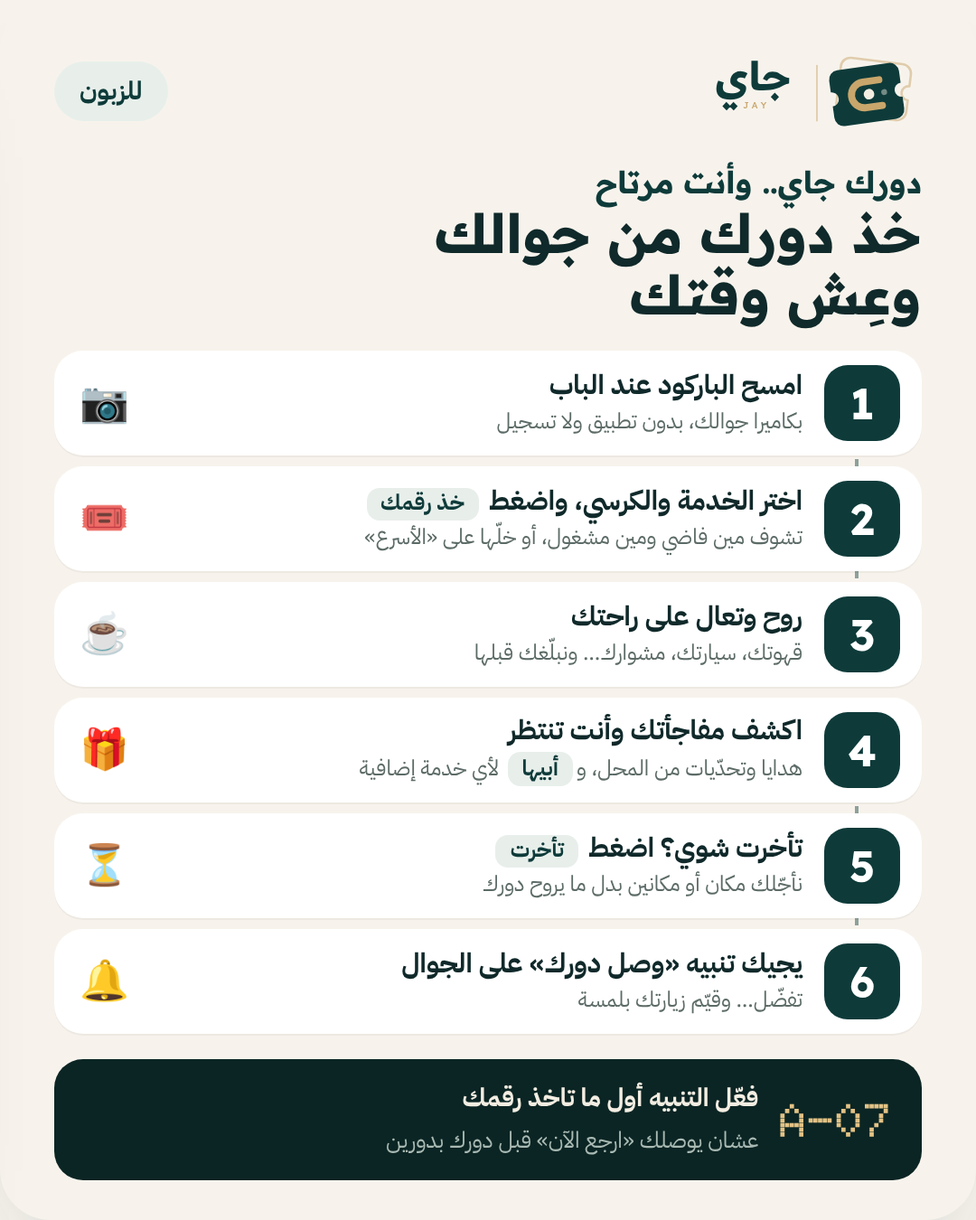
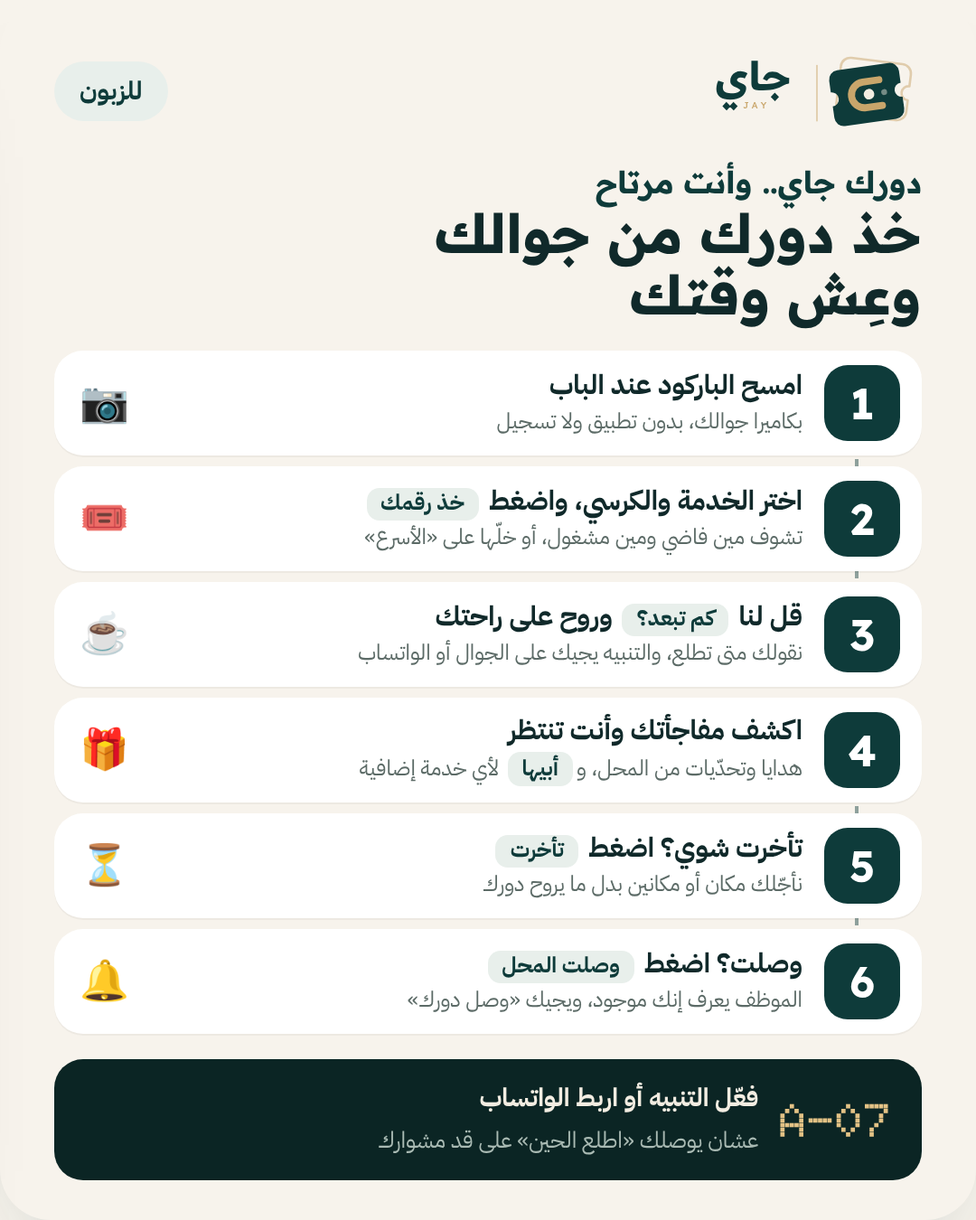
Sync every page with the app: WhatsApp, «كم تبعد؟», «وصلت»; standing update rule in CLAUDE.md
- Readiness: dated 24 Nov, 140 DB tests and 28 UX tests, recent work, notifications item done (waiting for Meta
  keys), privacy row, a far-away-customer runbook card, and an updated «ما أحتاجه منك» (admin password first).
- Intro site: distance-based alert and WhatsApp in the features, basic plan and FAQ; staff mock shows «وصل».
- Infographics: customer and staff steps re-written and PNGs re-exported; competitors: two new rows.
- CLAUDE.md: after any change, update tests, pages, artifacts, live site and both branches, and report the links.

Claude-Session: https://claude.ai/code/session_011AnjtrARLh3VczrdQUDmDr

Changed region(s): [[0.3972, 0.7778, 0.825, 0.84], [0.3667, 0.4978, 0.825, 0.56], [0.3972, 0.8711, 0.6417, 0.9644]]

diff --git a/site/readiness.html b/site/readiness.html
@@ -47,35 +47,35 @@ tr:last-child td{border-bottom:0}
 </style>
 <div class="wrap">
   <svg class="rep-logo light" xmlns="http://www.w3.org/2000/svg" viewBox="52 128 322 136" role="img" aria-label="جاي"><title>جاي</title><g transform="translate(304 194) rotate(7) scale(0.85) translate(-60 -48)"><path d="M16 0H104A16 16 0 0 1 120 16V36A12 12 0 0 0 120 60V80A16 16 0 0 1 104 96H16A16 16 0 0 1 0 80V60A12 12 0 0 0 0 36V16A16 16 0 0 1 16 0Z" fill="none" stroke="#C9A66B" stroke-width="4" stroke-opacity="0.5" stroke-linejoin="round"/></g><g transform="translate(294 202) rotate(-8) scale(0.85) translate(-60 -48)"><path d="M16 0H104A16 16 0 0 1 120 16V36A12 12 0 0 0 120 60V80A16 16 0 0 1 104 96H16A16 16 0 0 1 0 80V60A12 12 0 0 0 0 36V16A16 16 0 0 1 16 0Z" fill="#0E3B3A"/><path d="M84 26H56A22 22 0 0 0 56 70H84" fill="none" stroke="#C9A66B" stroke-width="12" stroke-linecap="round" stroke-linejoin="round"/><circle cx="64" cy="48" r="9" fill="#F3EDE2"/><circle cx="90" cy="48" r="5" fill="#F3EDE2" fill-opacity="0.45"/></g><line x1="222" y1="160" x2="222" y2="240" stroke="#C9A66B" stroke-width="2" stroke-linecap="round" stroke-opacity="0.6"/><path d="M96.215 209.34Q91.80699999999999 209.34 88.18199999999999 208.47Q84.55699999999999 207.6 81.91799999999999 205.744Q79.279 203.888 77.858 200.959Q76.437 198.03 76.437 193.912Q76.437 191.534 77.10399999999998 188.286Q77.77099999999999 185.038 79.22099999999999 182.022L87.225 184.516Q86.529 186.546 86.15199999999999 188.286Q85.77499999999999 190.026 85.77499999999999 191.708Q85.77499999999999 193.738 86.471 195.333Q87.167 196.928 88.61699999999999 198.03Q90.067 199.132 92.27099999999999 199.683Q94.475 200.234 97.491 200.234Q101.261 200.234 103.842 199.77Q106.423 199.306 107.96 198.55200000000002Q109.49699999999999 197.798 110.19299999999998 197.015Q110.889 196.232 110.889 195.652Q110.889 195.362 110.541 194.898Q110.193 194.434 108.685 193.564Q107.17699999999999 192.694 103.697 191.186Q101.261 190.084 99.695 188.837Q98.12899999999999 187.59 97.375 186.053Q96.621 184.516 96.621 182.544Q96.621 178.252 98.535 175.062Q100.449 171.872 103.81299999999999 170.103Q107.17699999999999 168.334 111.52699999999999 168.334Q113.383 168.334 115.21000000000001 168.711Q117.037 169.088 118.632 169.784Q120.227 170.48 121.445 171.466L117.38499999999999 178.948Q116.225 178.252 114.77499999999999 177.846Q113.32499999999999 177.44 111.52699999999999 177.44Q108.975 177.44 107.64099999999999 178.542Q106.30699999999999 179.644 106.30699999999999 180.804Q106.30699999999999 181.61599999999999 106.74199999999999 182.312Q107.17699999999999 183.008 108.77199999999999 183.907Q110.36699999999999 184.806 113.731 186.314Q116.28299999999999 187.416 117.52999999999999 188.402Q118.77699999999999 189.388 119.18299999999999 190.49Q119.589 191.592 119.589 193.042Q119.589 194.608 119.009 196.696Q118.429 198.784 116.979 200.988Q115.529 203.192 112.89 205.106Q110.251 207.02 106.162 208.18Q102.073 209.34 96.215 209.34ZM91.285 224.942 85.195 218.736 90.937 212.588 97.02699999999999 218.736ZM101.493 224.942 95.40299999999999 218.736 101.20299999999999 212.588 107.29299999999999 218.736ZM138.265 196.0Q135.365 196.0 133.277 195.42000000000002Q131.189 194.84 129.826 193.59300000000002Q128.463 192.346 127.79599999999999 190.374Q127.12899999999999 188.402 127.12899999999999 185.618V153.07999999999998H136.46699999999998V182.254Q136.46699999999998 183.53 136.641 184.429Q136.815 185.328 137.279 185.87900000000002Q137.743 186.43 138.584 186.662Q139.425 186.894 140.817 186.894H143.079V196.0ZM143.079 196.0V186.894H144.413Q149.691 186.894 153.287 186.662Q156.883 186.43 159.377 185.937Q161.871 185.444 163.727 184.69Q165.583 183.936 167.381 182.892Q167.787 182.66 168.077 182.486Q168.36700000000002 182.312 168.62800000000001 182.167Q168.889 182.022 169.06300000000002 181.964Q166.917 180.862 165.17700000000002 180.079Q163.437 179.296 161.9 178.803Q160.363 178.31 159.0 178.078Q157.637 177.846 156.245 177.846Q154.447 177.846 152.93900000000002 178.832Q151.431 179.81799999999998 149.749 182.254L143.775 179.18Q145.747 175.062 148.00900000000001 172.8Q150.27100000000002 170.538 152.707 169.639Q155.143 168.74 157.52100000000002 168.74Q160.65300000000002 168.74 163.29200000000003 169.668Q165.931 170.596 168.251 171.988Q170.571 173.38 172.775 174.743Q174.979 176.106 177.183 177.034Q179.387 177.962 181.881 177.904L181.707 185.792Q180.199 186.198 177.995 186.981Q175.791 187.764 172.89100000000002 189.272Q170.571 190.49 168.019 191.679Q165.467 192.868 162.161 193.85399999999998Q158.85500000000002 194.84 154.389 195.42000000000002Q149.923 196.0 143.833 196.0ZM143.079 186.894H143.65900000000002V196.0H143.079Q141.339 196.0 141.339 191.476Q141.339 186.894 143.079 186.894ZM161.291 211.602 155.143 205.39600000000002 161.001 199.248 167.091 205.39600000000002Z" fill="#0E3B3A"/><path d="M118.238 222.13Q117.783 222.13 117.36699999999999 222.01299999999998Q116.951 221.896 116.6 221.6815Q116.249 221.467 115.9695 221.1615Q115.69 220.856 115.495 220.479L116.509 219.426Q116.847 219.881 117.107 220.128Q117.367 220.375 117.614 220.466Q117.861 220.557 118.16 220.557Q118.576 220.557 118.8945 220.362Q119.213 220.167 119.382 219.829Q119.551 219.491 119.551 219.062V214.408H117.887V212.9H122.619V214.408H121.215V219.231Q121.215 219.868 120.994 220.3945Q120.773 220.921 120.3765 221.31099999999998Q119.98 221.701 119.434 221.9155Q118.888 222.13 118.238 222.13ZM127.58 222.0 131.129 212.9H132.702L136.225 222.0H134.483L132.51999999999998 216.8Q132.468 216.657 132.3575 216.31900000000002Q132.24699999999999 215.981 132.117 215.578Q131.987 215.175 131.8765 214.837Q131.766 214.499 131.727 214.33L132.052 214.317Q131.974 214.577 131.87 214.9085Q131.766 215.24 131.649 215.591Q131.53199999999998 215.942 131.415 216.267Q131.298 216.592 131.207 216.852L129.257 222.0ZM129.192 219.907 129.76399999999998 218.451H133.911L134.548 219.907ZM144.046 222.0V217.463L144.137 218.1L140.458 212.9H142.434L145.229 216.917L144.644 216.878L147.166 212.9H149.064L145.541 218.243L145.73600000000002 217.359V222.0Z" fill="#C9A66B"/></svg><svg class="rep-logo dark" xmlns="http://www.w3.org/2000/svg" viewBox="52 128 322 136" role="img" aria-label="جاي"><title>جاي</title><g transform="translate(304 194) rotate(7) scale(0.85) translate(-60 -48)"><path d="M16 0H104A16 16 0 0 1 120 16V36A12 12 0 0 0 120 60V80A16 16 0 0 1 104 96H16A16 16 0 0 1 0 80V60A12 12 0 0 0 0 36V16A16 16 0 0 1 16 0Z" fill="none" stroke="#C9A66B" stroke-width="4" stroke-opacity="0.5" stroke-linejoin="round"/></g><g transform="translate(294 202) rotate(-8) scale(0.85) translate(-60 -48)"><path d="M16 0H104A16 16 0 0 1 120 16V36A12 12 0 0 0 120 60V80A16 16 0 0 1 104 96H16A16 16 0 0 1 0 80V60A12 12 0 0 0 0 36V16A16 16 0 0 1 16 0Z" fill="#F3EDE2"/><path d="M84 26H56A22 22 0 0 0 56 70H84" fill="none" stroke="#C9A66B" stroke-width="12" stroke-linecap="round" stroke-linejoin="round"/><circle cx="64" cy="48" r="9" fill="#0E3B3A"/><circle cx="90" cy="48" r="5" fill="#0E3B3A" fill-opacity="0.45"/></g><line x1="222" y1="160" x2="222" y2="240" stroke="#C9A66B" stroke-width="2" stroke-linecap="round" stroke-opacity="0.6"/><path d="M96.215 209.34Q91.80699999999999 209.34 88.18199999999999 208.47Q84.55699999999999 207.6 81.91799999999999 205.744Q79.279 203.888 77.858 200.959Q76.437 198.03 76.437 193.912Q76.437 191.534 77.10399999999998 188.286Q77.77099999999999 185.038 79.22099999999999 182.022L87.225 184.516Q86.529 186.546 86.15199999999999 188.286Q85.77499999999999 190.026 85.77499999999999 191.708Q85.77499999999999 193.738 86.471 195.333Q87.167 196.928 88.61699999999999 198.03Q90.067 199.132 92.27099999999999 199.683Q94.475 200.234 97.491 200.234Q101.261 200.234 103.842 199.77Q106.423 199.306 107.96 198.55200000000002Q109.49699999999999 197.798 110.19299999999998 197.015Q110.889 196.232 110.889 195.652Q110.889 195.362 110.541 194.898Q110.193 194.434 108.685 193.564Q107.17699999999999 192.694 103.697 191.186Q101.261 190.084 99.695 188.837Q98.12899999999999 187.59 97.375 186.053Q96.621 184.516 96.621 182.544Q96.621 178.252 98.535 175.062Q100.449 171.872 103.81299999999999 170.103Q107.17699999999999 168.334 111.52699999999999 168.334Q113.383 168.334 115.21000000000001 168.711Q117.037 169.088 118.632 169.784Q120.227 170.48 121.445 171.466L117.38499999999999 178.948Q116.225 178.252 114.77499999999999 177.846Q113.32499999999999 177.44 111.52699999999999 177.44Q108.975 177.44 107.64099999999999 178.542Q106.30699999999999 179.644 106.30699999999999 180.804Q106.30699999999999 181.61599999999999 106.74199999999999 182.312Q107.17699999999999 183.008 108.77199999999999 183.907Q110.36699999999999 184.806 113.731 186.314Q116.28299999999999 187.416 117.52999999999999 188.402Q118.77699999999999 189.388 119.18299999999999 190.49Q119.589 191.592 119.589 193.042Q119.589 194.608 119.009 196.696Q118.429 198.784 116.979 200.988Q115.529 203.192 112.89 205.106Q110.251 207.02 106.162 208.18Q102.073 209.34 96.215 209.34ZM91.285 224.942 85.195 218.736 90.937 212.588 97.02699999999999 218.736ZM101.493 224.942 95.40299999999999 218.736 101.20299999999999 212.588 107.29299999999999 218.736ZM138.265 196.0Q135.365 196.0 133.277 195.42000000000002Q131.189 194.84 129.826 193.59300000000002Q128.463 192.346 127.79599999999999 190.374Q127.12899999999999 188.402 127.12899999999999 185.618V153.07999999999998H136.46699999999998V182.254Q136.46699999999998 183.53 136.641 184.429Q136.815 185.328 137.279 185.87900000000002Q137.743 186.43 138.584 186.662Q139.425 186.894 140.817 186.894H143.079V196.0ZM143.079 196.0V186.894H144.413Q149.691 186.894 153.287 186.662Q156.883 186.43 159.377 185.937Q161.871 185.444 163.727 184.69Q165.583 183.936 167.381 182.892Q167.787 182.66 168.077 182.486Q168.36700000000002 182.312 168.62800000000001 182.167Q168.889 182.022 169.06300000000002 181.964Q166.917 180.862 165.17700000000002 180.079Q163.437 179.296 161.9 178.803Q160.363 178.31 159.0 178.078Q157.637 177.846 156.245 177.846Q154.447 177.846 152.93900000000002 178.832Q151.431 179.81799999999998 149.749 182.254L143.775 179.18Q145.747 175.062 148.00900000000001 172.8Q150.27100000000002 170.538 152.707 169.639Q155.143 168.74 157.52100000000002 168.74Q160.65300000000002 168.74 163.29200000000003 169.668Q165.931 170.596 168.251 171.988Q170.571 173.38 172.775 174.743Q174.979 176.106 177.183 177.034Q179.387 177.962 181.881 177.904L181.707 185.792Q180.199 186.198 177.995 186.981Q175.791 187.764 172.89100000000002 189.272Q170.571 190.49 168.019 191.679Q165.467 192.868 162.161 193.85399999999998Q158.85500000000002 194.84 154.389 195.42000000000002Q149.923 196.0 143.833 196.0ZM143.079 186.894H143.65900000000002V196.0H143.079Q141.339 196.0 141.339 191.476Q141.339 186.894 143.079 186.894ZM161.291 211.602 155.143 205.39600000000002 161.001 199.248 167.091 205.39600000000002Z" fill="#F3EDE2"/><path d="M118.238 222.13Q117.783 222.13 117.36699999999999 222.01299999999998Q116.951 221.896 116.6 221.6815Q116.249 221.467 115.9695 221.1615Q115.69 220.856 115.495 220.479L116.509 219.426Q116.847 219.881 117.107 220.128Q117.367 220.375 117.614 220.466Q117.861 220.557 118.16 220.557Q118.576 220.557 118.8945 220.362Q119.213 220.167 119.382 219.829Q119.551 219.491 119.551 219.062V214.408H117.887V212.9H122.619V214.408H121.215V219.231Q121.215 219.868 120.994 220.3945Q120.773 220.921 120.3765 221.31099999999998Q119.98 221.701 119.434 221.9155Q118.888 222.13 118.238 222.13ZM127.58 222.0 131.129 212.9H132.702L136.225 222.0H134.483L132.51999999999998 216.8Q132.468 216.657 132.3575 216.31900000000002Q132.24699999999999 215.981 132.117 215.578Q131.987 215.175 131.8765 214.837Q131.766 214.499 131.727 214.33L132.052 214.317Q131.974 214.577 131.87 214.9085Q131.766 215.24 131.649 215.591Q131.53199999999998 215.942 131.415 216.267Q131.298 216.592 131.207 216.852L129.257 222.0ZM129.192 219.907 129.76399999999998 218.451H133.911L134.548 219.907ZM144.046 222.0V217.463L144.137 218.1L140.458 212.9H142.434L145.229 216.917L144.644 216.878L147.166 212.9H149.064L145.541 218.243L145.73600000000002 217.359V222.0Z" fill="#C9A66B"/></svg>
-  <span class="muted">تقرير جاهزية · ١١ نوفمبر ٢٠٢٦</span>
+  <span class="muted">تقرير جاهزية · آخر تحديث ٢٤ نوفمبر ٢٠٢٦</span>
   <h1>«جاي» أمام ملاحظات المراجعة</h1>
   <p class="lede">راجعت الملاحظات الأربع عشرة والاقتراحات الاثنين والعشرين على الكود نفسه، مو على الموقع فقط. كثير منها كان موجوداً لكنه غير ظاهر في الموقع، وبعضها نفّذته اليوم، والباقي له خطة واضحة أو يحتاج قرارك.</p>
-  <div class="legend"><span class="t ok">موجود</span><span class="t new">نُفّذ اليوم</span><span class="t plan">خطة</span><span class="t you">يحتاج قرارك</span></div>
+  <div class="legend"><span class="t ok">موجود</span><span class="t new">نُفّذ مؤخراً</span><span class="t plan">خطة</span><span class="t you">يحتاج قرارك</span></div>
 
   <div class="stats">
     <div class="stat"><b>540</b><span>عملية في الثانية تحت الضغط</span></div>
     <div class="stat"><b>0</b><span>أخطاء وأرقام مكررة في اختبار الضغط</span></div>
-    <div class="stat"><b>95</b><span>اختبار لقاعدة البيانات نجحت</span></div>
-    <div class="stat"><b>18</b><span>اختبار لتجربة الاستخدام نجحت</span></div>
+    <div class="stat"><b>140</b><span>اختبار لقاعدة البيانات نجحت</span></div>
+    <div class="stat"><b>28</b><span>اختبار لتجربة الاستخدام نجحت</span></div>
   </div>
 
   <div class="callout">
-    <b>أهم ما نُفّذ اليوم</b>
+    <b>أهم ما نُفّذ منذ آخر تحديث</b>
     <ol>
-      <li><b>«اكتب لي بإحساس»:</b> صاحب المحل يكتب اسم الخدمة وملاحظة بسيطة، والذكاء الاصطناعي يكتب وصفاً عاطفياً باللهجة السعودية. يقدر يعدّله أو يطلب غيره، أو يكتب أوصاف كل الأصناف دفعة وحدة.</li>
-      <li><b>سجل الطابور:</b> كل نداء وتأجيل وغياب مسجّل، مع مين سوّاه ومتى. يفيد إذا صار خلاف أو تلاعب.</li>
-      <li><b>حساب أدق للانتظار:</b> يحسب الموظفين المتواجدين فعلاً الحين، مو كل الموظفين المسجّلين.</li>
-      <li><b>«اكتملت مواعيد اليوم»:</b> ما يقدر الزبون ياخذ دور ما راح يُخدم قبل الإغلاق، فما يجي على الفاضي.</li>
-      <li><b>سرعة أكبر بخمس مرات:</b> اكتشفها اختبار الضغط وأصلحناها (من ١١٢ إلى ٥٤٠ عملية في الثانية).</li>
-      <li><b>تنبيه انقطاع الإنترنت</b> في صفحات الزبون وصاحب المحل.</li>
-      <li><b>إصلاح خللين في الواجهة:</b> رسالة التنبيه المنبثقة كانت تمنع الضغط على الأزرار تحتها، وجدول الدوام كان يخرج عن عرض الجوالات الصغيرة.</li>
+      <li><b>التشغيل الحقيقي:</b> الموقع الحي فاضي من بيانات التجربة وجاهز لأول العملاء، مع نسخة احتياطية تلقائية كل ليلة، وفحص صحة للنظام، وصفحة خصوصية وشروط.</li>
+      <li><b>تنبيهات واتساب:</b> الزبون يضغط «نبّهني على واتساب» ويرسل رسالة جاهزة، فيوصله «اطلع الحين» و«وصل دورك» بدون ما نطلب رقمه. مبرمجة ومنشورة، وتشتغل أول ما تُضاف مفاتيح ميتا.</li>
+      <li><b>«كم تبعد عن المحل؟»:</b> التنبيه يوصل حسب مشوار الزبون (٥ إلى ٤٥ دقيقة حسب النشاط) بدل «قبل دورين» دائماً، وتظهر له ساعة دوره وساعة خروجه.</li>
+      <li><b>«وصلت المحل»:</b> الموظف يشوف بجانب كل رقم «وصل» أو «في الطريق»، فما ينادي على أحد مو موجود.</li>
+      <li><b>الهوية الجديدة:</b> الشعار المعتمد بألوانه وخطّه في التطبيق وكل الصفحات وملصقات QR، واستوديو قوالب لإكس وتيك توك وانستقرام.</li>
+      <li><b>ملصقات QR لكل عميل:</b> ملصق باب، وبطاقة مرآة، وستيكر زجاج، تُطبع من لوحة المنصة بزر واحد.</li>
+      <li><b>إصلاحات:</b> التجربة المجانية المنتهية بدون اشتراك صارت توقف المحل بدل ما تبقيه شغّال مجاناً، و«ارجع الحين» صار يوصل لمن ربط الواتساب فقط، والهدية المغلّفة ما ترجع مغلّفة عند تحديث الصفحة.</li>
     </ol>
   </div>
 
   <h2>أولاً: الملاحظات الأربع عشرة</h2>
   <div class="rows">
     <div class="row"><span class="n">١</span><div><h3>جاهزية النظام للضغط <span class="t new">نُفّذ اليوم</span></h3><p>أجرينا <b>اختبار ضغط فعلي</b>: ٥٠ محلاً و٢٠ مستخدماً في نفس اللحظة لمدة ٣٠ ثانية، وصل الطابور فيها إلى ٧٧ شخصاً في المحل الواحد. النتيجة: أكثر من ١٦ ألف عملية، <b>بدون أي خطأ أو رقم مكرر</b>. كشف الاختبار بطئاً في حساب وقت الانتظار، وأصلحناه فصار النظام أسرع ٥ مرات. وفيه اختبار خاص يتأكد أن ٤٠ شخصاً يأخذون رقماً في نفس اللحظة بدون أي تكرار.</p></div></div>
-    <div class="row"><span class="n">٢</span><div><h3>الاعتماد على إشعارات المتصفح فقط <span class="t plan">خطة</span> <span class="t you">قرار تكلفة</span></h3><p><b>الموجود الآن:</b> إشعار الجوال، وصوت واهتزاز، وتحديث مباشر للصفحة، والرقم الحالي يظهر في تذكرة كل زبون. <b>الحل المقترح:</b> واتساب ورسائل نصية كإضافة مدفوعة اختيارية، لأن كل رسالة لها تكلفة، والرسائل النصية في السعودية تحتاج تسجيل اسم المرسل. الترتيب: إشعار الجوال أولاً (مجاني)، فإن لم يصل خلال دقيقة نرسل واتساب أو رسالة نصية، وفقط لمن أعطى رقمه ووافق.</p></div></div>
+    <div class="row"><span class="n">٢</span><div><h3>الاعتماد على إشعارات المتصفح فقط <span class="t new">نُفّذ</span> <span class="t you">ينتظر مفاتيح ميتا</span></h3><p><b>الموجود الآن:</b> إشعار الجوال، وصوت واهتزاز، وتحديث مباشر للصفحة، و<b>تنبيه واتساب</b> يبدأه الزبون بنفسه: يضغط «نبّهني على واتساب»، يرسل رسالة جاهزة فيها رمز تذكرته، فيوصله «اطلع الحين» و«وصل دورك» كردود داخل ٢٤ ساعة (أرخص طريقة، تقريباً ٠٫٠٤ ريال للرسالة أو أقل). ما نطلب رقمه في أي خانة، ونمسحه بعد يوم من انتهاء تذكرته. الربط مباشر مع ميتا بدون شركة وسيطة ولا اشتراك شهري، ويشتغل بدون سجل تجاري بحد ٢٥٠ زبوناً في اليوم. <b>الباقي:</b> رقم جوال مخصص وحساب Meta Business، ثم إدخال المفاتيح من لوحة المنصة. الرسائل النصية مؤجلة لأنها تحتاج تسجيل اسم مرسل.</p></div></div>
     <div class="row"><span class="n">٣</span><div><h3>تأخر العملاء وغيابهم وتجاوز أدوارهم <span class="t ok">موجود</span></h3><p><b>«تأخرت شوي»:</b> الزبون يؤجّل نفسه مكاناً أو مكانين، بحد أقصى يحدده المالك. <b>«ما حضر»</b> في المرة الأولى يؤخّره بعدد أماكن يحدده المالك، وفي الثانية يخرج من الطابور. <b>«ارجع الآن»:</b> تنبيه للزبون قبل دوره بدورين. والأولوية للمسن والحامل وذوي الإعاقة تسجّل مع اسم الجهاز الذي منحها. وكل هذا صار مسجّلاً اليوم في سجل الطابور.</p></div></div>
     <div class="row"><span class="n">٤</span><div><h3>دقة وقت الانتظار <span class="t ok">موجود</span> <span class="t new">تحسّن اليوم</span></h3><p>كان النظام أصلاً يتعلّم المدة الفعلية لكل خدمة من آخر ٣٠ زبوناً (القيمة الوسطى، حتى لا تؤثر الحالات الشاذة)، ويحسب عدد الأشخاص في التذكرة العائلية. <b>اليوم</b> صار يحسب الموظفين المتواجدين فعلاً فقط. ويعرض للزبون وقتاً بهامش بسيط، فإذا جاه الدور أبكر يفرح بدل ما يزعل.</p></div></div>
     <div class="row"><span class="n">٥</span><div><h3>التمايز عن المنافسين <span class="t ok">موجود</span></h3><p>«وأنت تنتظر» والمفاجأة المختومة، و«تحدّياتي»، و«أبيها»، و«نبّهني لما تهدأ»، وشاشة الموظف بخمس لغات، ووضع الاستلام والتسليم، والآن «اكتب لي بإحساس». ما وجدنا أياً منها عند لايني أو منيوهات أو دورك.</p></div></div>
@@ -95,8 +95,8 @@ tr:last-child td{border-bottom:0}
     <thead><tr><th>#</th><th>الاقتراح</th><th>الحالة</th><th>التفاصيل</th></tr></thead>
     <tbody>
       <tr><td>١</td><td>طابور ذكي</td><td><span class="t ok">موجود</span> <span class="t new">تحسّن</span></td><td>يتعلّم المدة الفعلية لكل خدمة ولكل موظف، ويحسب المتواجدين فعلاً</td></tr>
-      <tr><td>٢</td><td>إدارة التأخير</td><td><span class="t ok">موجود</span></td><td>«تأخرت شوي» بحد أقصى، و«ارجع الآن»، والتأخير التلقائي عند الغياب</td></tr>
-      <tr><td>٣</td><td>إشعارات متعددة</td><td><span class="t plan">خطة</span></td><td>واتساب ورسائل نصية كإضافة مدفوعة (البند ٢)</td></tr>
+      <tr><td>٢</td><td>إدارة التأخير</td><td><span class="t ok">موجود</span> <span class="t new">تحسّن</span></td><td>«كم تبعد؟» يرسل «اطلع الحين» حسب مشوار الزبون، و«وصلت» يعرّف الموظف بالموجودين، و«تأخرت شوي» بحد أقصى، والتأخير التلقائي عند الغياب</td></tr>
+      <tr><td>٣</td><td>إشعارات متعددة</td><td><span class="t ok">موجود</span> <span class="t new">نُفّذ</span></td><td>إشعار المتصفح وواتساب معاً لنفس الحدث، ويشتغل الواتساب بعد إدخال مفاتيح ميتا (البند ٢)</td></tr>
       <tr><td>٤</td><td>حماية الطابور وسجل التعديلات</td><td><span class="t ok">موجود</span> <span class="t new">نُفّذ</span></td><td>حدود الحجز وسجل كامل لكل تعديل</td></tr>
       <tr><td>٥</td><td>تخصيص الأنشطة</td><td><span class="t ok">موجود</span> <span class="t plan">قوالب</span></td><td>ثلاثة أوضاع، والقوالب الجاهزة قادمة</td></tr>
       <tr><td>٦</td><td>توزيع العملاء على الموظفين</td><td><span class="t ok">موجود</span> <span class="t new">نُفّذ</span></td><td>لوحة «الكراسي الحين»: حالة كل كرسي أو مختصة، وعدد المنتظرين لكل واحد، والحجز عند كرسي معيّن أو «الأسرع»، في كل الباقات</td></tr>
@@ -112,7 +112,7 @@ tr:last-child td{border-bottom:0}
       <tr><td>١٦</td><td>واجهة داكنة افتراضية</td><td><span class="t you">بديل أفضل</span></td><td>نقترح أن يتبع الوضع إعداد الجوال تلقائياً مع زر تبديل (موجود)، لأن الوضع الفاتح أوضح في الشمس. تخصيص لون المحل: خطة</td></tr>
       <tr><td>١٧</td><td>الفروع والصلاحيات</td><td><span class="t ok">جزئياً</span></td><td>فروع متعددة للمالك، وأجهزة موظفين لكل فرع. دور «المدير»: خطة</td></tr>
       <tr><td>١٨</td><td>قياس العائد</td><td><span class="t plan">خطة</span></td><td>بطاقة العائد الحقيقي (البند ١١)</td></tr>
-      <tr><td>١٩</td><td>إدارة الخصوصية</td><td><span class="t ok">موجود</span></td><td>موافقة صريحة، والتنبيهات التشغيلية منفصلة عن التسويق</td></tr>
+      <tr><td>١٩</td><td>إدارة الخصوصية</td><td><span class="t ok">موجود</span> <span class="t new">نُفّذ</span></td><td>صفحة خصوصية وشروط حسب نظام حماية البيانات، وموافقة صريحة، وحذف تلقائي لأرقام الجوال (٩٠ يوماً) وأرقام الواتساب (يوم)، وكلمة «إيقاف» تمسح الرقم فوراً</td></tr>
       <tr><td>٢٠</td><td>باقات مرنة</td><td><span class="t you">قرارك</span></td><td>باقة مجانية وإضافات مدفوعة (البند ٦)</td></tr>
       <tr><td>٢١</td><td>الربط مع الأنظمة الأخرى</td><td><span class="t plan">لاحقاً</span></td><td>فوديكس للمقاهي أولاً، بعد التجربة الميدانية</td></tr>
       <tr><td>٢٢</td><td>تجربة ميدانية</td><td><span class="t you">تنفيذك</span></td><td>الخطة أدناه</td></tr>
@@ -126,6 +126,7 @@ tr:last-child td{border-bottom:0}
     <div class="card"><h3>توقف السيرفر بالكامل</h3><ol><li>المحل يرجع لنظام الأرقام الورقية (دفتر طوارئ يُعطى مع الملصق)</li><li>تنبيه تلقائي لنا خلال دقائق (مراقبة تشغيل: خطة)</li><li>نسخ احتياطي يومي لقاعدة البيانات، يتم إعداده مع السيرفر</li><li>الطابور محفوظ في قاعدة البيانات، ويكمل من حيث توقف</li></ol></div>
     <div class="card"><h3>زبون أخذ دوراً ولم يحضر</h3><ul><li>الموظف يضغط «ما حضر»، فيتأخر الزبون أماكن يحددها المالك</li><li>إذا تكرر غيابه يخرج من الطابور</li><li>كل ذلك مسجّل باسم الجهاز والوقت</li></ul></div>
     <div class="card"><h3>شخص يحاول إغراق الطابور</h3><ul><li>حد للأدوار من نفس الجهاز في الساعة، وحد للحجز من الخارج</li><li>المالك يشوف في السجل كل الأدوار ومصدرها</li><li>الموظف يقدر يُخرج أي دور وهمي بزر «ما حضر»</li></ul></div>
+    <div class="card"><h3>زبون بعيد عن المحل</h3><ul><li>يختار «كم تبعد؟» (مثلاً ١٥ دقيقة)، وتظهر له ساعة دوره وساعة خروجه</li><li>يوصله «اطلع الحين» على الجوال أو الواتساب لما يصير الباقي قد مشواره وخمس دقائق</li><li>يضغط «وصلت المحل» عند الوصول، والموظف يشوف «وصل» بجانب رقمه</li></ul></div>
     <div class="card"><h3>خلاف «أنا قبله»</h3><ul><li>المالك يفتح «سجل الطابور» ويشوف من أخذ دوره أولاً ومتى</li><li>والأولوية مسجّلة مع سببها والجهاز الذي منحها</li></ul></div>
   </div>
 
@@ -143,11 +144,12 @@ tr:last-child td{border-bottom:0}
   <h2>ما أحتاجه منك</h2>
   <div class="card">
     <ol>
-      <li><b>الأسعار:</b> هل نعتمد الهيكل المقترح؟ (مجاني، ثم ٩٩، ثم ١٩٩، ثم ٣٤٩)</li>
-      <li><b>العلامة التجارية:</b> البحث عن «جاي» في سجل الهيئة السعودية للملكية الفكرية.</li>
-      <li><b>واتساب والرسائل النصية:</b> هل نضيفها كخدمة مدفوعة؟ وأي مزوّد تفضّل؟</li>
-      <li><b>التجربة الميدانية:</b> ترشيح محلات تعرف أصحابها.</li>
-      <li><b>السيرفر:</b> تشغيل أمر التثبيت على Hostinger لنبدأ التجربة على بيانات حقيقية.</li>
+      <li><b>عاجل · كلمة مرور لوحة المنصة:</b> الحساب ما زال يدخل بكلمة مرور التجربة المنشورة. غيّرها من الشريط الأحمر في اللوحة.</li>
+      <li><b>واتساب:</b> شريحة جديدة لجاي، وحساب Meta Business، ثم لصق المفاتيح في «واتساب ← الإعدادات» بلوحة المنصة. وجرّب التوثيق بشهادة العمل الحر.</li>
+      <li><b>دعم الزبائن:</b> بريد أو رقم واتساب للدعم يظهر في صفحة الخصوصية.</li>
+      <li><b>الأسعار:</b> هل نعتمد الهيكل المقترح؟ (مجاني، ثم ٩٩، ثم ١٩٩، ثم ٣٤٩)، ومن يتحمل تكلفة رسائل الواتساب.</li>
+      <li><b>التجربة الميدانية:</b> خمسة حلاقين تعرف أصحابهم، ونضيفهم من «إضافة عميل» ونطبع ملصقاتهم.</li>
+      <li><b>العلامة التجارية:</b> البحث عن «جاي» في سجل الهيئة السعودية للملكية الفكرية، والسجل التجاري لاحقاً عند التوسع.</li>
     </ol>
   </div>
 </div>

diff --git a/site/dawri.html b/site/dawri.html
@@ -485,6 +485,8 @@ footer .wrap{display:flex;flex-wrap:wrap;gap:12px;justify-content:space-between;
       <p style="color:var(--muted);margin-top:14px;font-size:18px">لكل محل صفحة حيّة تقول الحقيقة بلطف: هادي الحين، فيه حركة خفيفة، أو زحمة. يشوفها زبونك من بيته قبل ما يلبس شماغه أو عباتها، ويقرر وهو مرتاح.</p>
       <ul class="points">
         <li><i aria-hidden="true">💈</i><div><b>«الكراسي الحين»: اختر عند مين</b><span>يشوف زبونك كل كرسي أو مختصة: فاضي الحين، أو مشغول ويخدم رقم كم، وكم ينتظره بالضبط. يحجز عند حلاقه المفضّل، أو يخليها على «أي واحد · الأسرع».</span></div></li>
+        <li><i aria-hidden="true">🚗</i><div><b>«كم تبعد؟» والتنبيه على مقاسه</b><span>زبونك يقول لنا كم يبعد، فنقول له «اطلع الساعة كذا»، والتنبيه يوصله على قد مشواره. ولما يوصل يضغط «وصلت»، وموظفك يعرف إنه موجود.</span></div></li>
+        <li><i aria-hidden="true">💬</i><div><b>التنبيه على واتساب</b><span>للي يبي الواتساب: لمسة وحدة ورسالة جاهزة، فيوصله «اطلع الحين» و«وصل دورك» حتى لو جواله آيفون والصفحة مقفلة. بدون ما يكتب رقمه.</span></div></li>
         <li><i aria-hidden="true">🔔</i><div><b>«نبّهني لما تهدأ»</b><span>المحل زحمة؟ لمسة وحدة، وأول ما يخف الطابور يوصله تنبيه. ما نطلب رقمه ولا اسمه، والتنبيه ينلغي من نفسه بعد ٤ ساعات.</span></div></li>
         <li><i aria-hidden="true">🌿</i><div><b>«أهدأ وقت باقي اليوم»</b><span>نعرف من أيامك السابقة متى يهدأ محلك، ونقترحه على زبونك بدل ما يجي وقت الذروة ويمشي.</span></div></li>
         <li><i aria-hidden="true">🔗</i><div><b>رابط واحد في كل مكان</b><span>ضعه في إنستقرام وسناب وقوقل ماب وواتساب. كل من يفتحه يشوف الزحمة الحين، ويقدر ياخذ دوره من مكانه.</span></div></li>
@@ -619,6 +621,7 @@ footer .wrap{display:flex;flex-wrap:wrap;gap:12px;justify-content:space-between;
       <button class="callbig" type="button" id="tCall">نادِ التالي</button>
       <div class="row2"><span id="tSkip">ما حضر</span><span id="tWait">ينتظرون: ٤</span></div>
       <div class="want-badge" id="tWant">✋ A-14 يبي: تحديد اللحية</div>
+      <div class="want-badge" style="margin-top:8px">📍 A-13 وصل · 🚗 A-15 في الطريق</div>
     </div>
   </div>
 </section>
@@ -653,7 +656,7 @@ footer .wrap{display:flex;flex-wrap:wrap;gap:12px;justify-content:space-between;
         <h3>الأساسية</h3>
         <p class="for">لمحل يبي ينهي فوضى الطابور</p>
         <div class="price"><b>199</b><span>ريال / شهرياً</span></div>
-        <ul><li>صفحة محلك الحيّة و«نبّهني لما تهدأ»</li><li>لوحة الكراسي واختيار الحلاق أو المختصة</li><li>الطابور بأوضاعه الثلاثة</li><li>تنبيه «وصل دورك» و«تأخرت شوي»</li><li>شاشة الموظف بخمس لغات</li><li>ملخص المساء</li><li>حاسبة الزبائن الضائعين</li></ul>
+        <ul><li>صفحة محلك الحيّة و«نبّهني لما تهدأ»</li><li>لوحة الكراسي واختيار الحلاق أو المختصة</li><li>«كم تبعد؟» و«وصلت» وتنبيه الواتساب</li><li>الطابور بأوضاعه الثلاثة</li><li>تنبيه «وصل دورك» و«تأخرت شوي»</li><li>شاشة الموظف بخمس لغات</li><li>ملخص المساء</li><li>حاسبة الزبائن الضائعين</li></ul>
         <a class="btn btn-ghost" href="#contact">ابدأ بالأساسية</a>
       </article>
       <article class="plan feat reveal">
@@ -690,7 +693,8 @@ footer .wrap{display:flex;flex-wrap:wrap;gap:12px;justify-content:space-between;
     <div class="faq reveal">
       <details><summary>زبائني كبار في السن وما يعرفون للباركود، وش الحل؟</summary><p>الموظف يقدر يضيفه للطابور من شاشته بلمسة، ويطلع رقمه على شاشة الموظف بخط كبير يقدر يوريه له، أو يكتبه له على ورقة.</p></details>
       <details><summary>هل لازم أغيّر نظام الكاشير أو الفواتير؟</summary><p>لا. «جاي» يشتغل جنب نظامك الحالي بدون ما يلمسه. الكاشير يبقى مثل ما هو.</p></details>
-      <details><summary>وش يصير إذا الزبون ما وصله الإشعار؟</summary><p>التذكرة على جواله تتحدث لحظياً وتعرض «وصل دورك» بشكل واضح، والموظف يشوف مين وصله التنبيه ومين لا، ويقدر يأجّله بدل ما يلغيه.</p></details>
+      <details><summary>وش يصير إذا الزبون ما وصله الإشعار؟</summary><p>التذكرة على جواله تتحدث لحظياً وتعرض «وصل دورك» بشكل واضح، ويقدر يربط الواتساب بلمسة فيوصله التنبيه هناك أيضاً. والموظف يشوف مين يوصله تنبيه ومين «وصل» أو «في الطريق»، ويقدر يأجّله بدل ما يلغيه.</p></details>
+      <details><summary>زبوني بعيد عن المحل، كيف يعرف متى يطلع؟</summary><p>يختار «كم تبعد؟» بعد ما ياخذ رقمه، مثلاً ١٥ دقيقة. تظهر له ساعة دوره المتوقعة وساعة خروجه، ويوصله «اطلع الحين» على الجوال أو الواتساب لما يصير الباقي قد مشواره وخمس دقائق احتياط. ولما يوصل يضغط «وصلت».</p></details>
       <details><summary>الزبون يبي حلاق معيّن، أقدر؟</summary><p>أكيد. صفحة المحل فيها «الكراسي الحين»: كل كرسي أو مختصة بحالته (فاضي، أو مشغول ويخدم رقم كم)، وعدد اللي ينتظرونه والوقت التقريبي. الزبون يضغط «احجز هنا» عند اللي يبيه، وشاشة الحلاق تنادي زبائنه هو. وفي المشاغل النسائية تظهر «المختصات الحين»، وكل مختصة بخدماتها فقط.</p></details>
       <details><summary>وش يعني «نبّهني لما تهدأ»؟</summary><p>إذا شاف الزبون إن المحل زحمة، يضغط زر واحد ويكمّل يومه. أول ما يخف الطابور للعدد اللي اختاره، يوصله تنبيه على جواله. ما نطلب رقمه ولا اسمه، والتنبيه مرة وحدة وينلغي من نفسه بعد ٤ ساعات.</p></details>
       <details><summary>كم ياخذ وقت التركيب؟</summary><p>حوالي عشر دقائق: تكتب اسم محلك وخدماتك، وتطبع ملصق الباركود، وتفتح شاشة الموظف على أي جوال.</p></details>

diff --git a/site/index.html b/site/index.html
@@ -493,6 +493,8 @@ footer .wrap{display:flex;flex-wrap:wrap;gap:12px;justify-content:space-between;
       <p style="color:var(--muted);margin-top:14px;font-size:18px">لكل محل صفحة حيّة تقول الحقيقة بلطف: هادي الحين، فيه حركة خفيفة، أو زحمة. يشوفها زبونك من بيته قبل ما يلبس شماغه أو عباتها، ويقرر وهو مرتاح.</p>
       <ul class="points">
         <li><i aria-hidden="true">💈</i><div><b>«الكراسي الحين»: اختر عند مين</b><span>يشوف زبونك كل كرسي أو مختصة: فاضي الحين، أو مشغول ويخدم رقم كم، وكم ينتظره بالضبط. يحجز عند حلاقه المفضّل، أو يخليها على «أي واحد · الأسرع».</span></div></li>
+        <li><i aria-hidden="true">🚗</i><div><b>«كم تبعد؟» والتنبيه على مقاسه</b><span>زبونك يقول لنا كم يبعد، فنقول له «اطلع الساعة كذا»، والتنبيه يوصله على قد مشواره. ولما يوصل يضغط «وصلت»، وموظفك يعرف إنه موجود.</span></div></li>
+        <li><i aria-hidden="true">💬</i><div><b>التنبيه على واتساب</b><span>للي يبي الواتساب: لمسة وحدة ورسالة جاهزة، فيوصله «اطلع الحين» و«وصل دورك» حتى لو جواله آيفون والصفحة مقفلة. بدون ما يكتب رقمه.</span></div></li>
         <li><i aria-hidden="true">🔔</i><div><b>«نبّهني لما تهدأ»</b><span>المحل زحمة؟ لمسة وحدة، وأول ما يخف الطابور يوصله تنبيه. ما نطلب رقمه ولا اسمه، والتنبيه ينلغي من نفسه بعد ٤ ساعات.</span></div></li>
         <li><i aria-hidden="true">🌿</i><div><b>«أهدأ وقت باقي اليوم»</b><span>نعرف من أيامك السابقة متى يهدأ محلك، ونقترحه على زبونك بدل ما يجي وقت الذروة ويمشي.</span></div></li>
         <li><i aria-hidden="true">🔗</i><div><b>رابط واحد في كل مكان</b><span>ضعه في إنستقرام وسناب وقوقل ماب وواتساب. كل من يفتحه يشوف الزحمة الحين، ويقدر ياخذ دوره من مكانه.</span></div></li>
@@ -627,6 +629,7 @@ footer .wrap{display:flex;flex-wrap:wrap;gap:12px;justify-content:space-between;
       <button class="callbig" type="button" id="tCall">نادِ التالي</button>
       <div class="row2"><span id="tSkip">ما حضر</span><span id="tWait">ينتظرون: ٤</span></div>
       <div class="want-badge" id="tWant">✋ A-14 يبي: تحديد اللحية</div>
+      <div class="want-badge" style="margin-top:8px">📍 A-13 وصل · 🚗 A-15 في الطريق</div>
     </div>
   </div>
 </section>
@@ -661,7 +664,7 @@ footer .wrap{display:flex;flex-wrap:wrap;gap:12px;justify-content:space-between;
         <h3>الأساسية</h3>
         <p class="for">لمحل يبي ينهي فوضى الطابور</p>
         <div class="price"><b>199</b><span>ريال / شهرياً</span></div>
-        <ul><li>صفحة محلك الحيّة و«نبّهني لما تهدأ»</li><li>لوحة الكراسي واختيار الحلاق أو المختصة</li><li>الطابور بأوضاعه الثلاثة</li><li>تنبيه «وصل دورك» و«تأخرت شوي»</li><li>شاشة الموظف بخمس لغات</li><li>ملخص المساء</li><li>حاسبة الزبائن الضائعين</li></ul>
+        <ul><li>صفحة محلك الحيّة و«نبّهني لما تهدأ»</li><li>لوحة الكراسي واختيار الحلاق أو المختصة</li><li>«كم تبعد؟» و«وصلت» وتنبيه الواتساب</li><li>الطابور بأوضاعه الثلاثة</li><li>تنبيه «وصل دورك» و«تأخرت شوي»</li><li>شاشة الموظف بخمس لغات</li><li>ملخص المساء</li><li>حاسبة الزبائن الضائعين</li></ul>
         <a class="btn btn-ghost" href="#contact">ابدأ بالأساسية</a>
       </article>
       <article class="plan feat reveal">
@@ -698,7 +701,8 @@ footer .wrap{display:flex;flex-wrap:wrap;gap:12px;justify-content:space-between;
     <div class="faq reveal">
       <details><summary>زبائني كبار في السن وما يعرفون للباركود، وش الحل؟</summary><p>الموظف يقدر يضيفه للطابور من شاشته بلمسة، ويطلع رقمه على شاشة الموظف بخط كبير يقدر يوريه له، أو يكتبه له على ورقة.</p></details>
       <details><summary>هل لازم أغيّر نظام الكاشير أو الفواتير؟</summary><p>لا. «جاي» يشتغل جنب نظامك الحالي بدون ما يلمسه. الكاشير يبقى مثل ما هو.</p></details>
-      <details><summary>وش يصير إذا الزبون ما وصله الإشعار؟</summary><p>التذكرة على جواله تتحدث لحظياً وتعرض «وصل دورك» بشكل واضح، والموظف يشوف مين وصله التنبيه ومين لا، ويقدر يأجّله بدل ما يلغيه.</p></details>
+      <details><summary>وش يصير إذا الزبون ما وصله الإشعار؟</summary><p>التذكرة على جواله تتحدث لحظياً وتعرض «وصل دورك» بشكل واضح، ويقدر يربط الواتساب بلمسة فيوصله التنبيه هناك أيضاً. والموظف يشوف مين يوصله تنبيه ومين «وصل» أو «في الطريق»، ويقدر يأجّله بدل ما يلغيه.</p></details>
+      <details><summary>زبوني بعيد عن المحل، كيف يعرف متى يطلع؟</summary><p>يختار «كم تبعد؟» بعد ما ياخذ رقمه، مثلاً ١٥ دقيقة. تظهر له ساعة دوره المتوقعة وساعة خروجه، ويوصله «اطلع الحين» على الجوال أو الواتساب لما يصير الباقي قد مشواره وخمس دقائق احتياط. ولما يوصل يضغط «وصلت».</p></details>
       <details><summary>الزبون يبي حلاق معيّن، أقدر؟</summary><p>أكيد. صفحة المحل فيها «الكراسي الحين»: كل كرسي أو مختصة بحالته (فاضي، أو مشغول ويخدم رقم كم)، وعدد اللي ينتظرونه والوقت التقريبي. الزبون يضغط «احجز هنا» عند اللي يبيه، وشاشة الحلاق تنادي زبائنه هو. وفي المشاغل النسائية تظهر «المختصات الحين»، وكل مختصة بخدماتها فقط.</p></details>
       <details><summary>وش يعني «نبّهني لما تهدأ»؟</summary><p>إذا شاف الزبون إن المحل زحمة، يضغط زر واحد ويكمّل يومه. أول ما يخف الطابور للعدد اللي اختاره، يوصله تنبيه على جواله. ما نطلب رقمه ولا اسمه، والتنبيه مرة وحدة وينلغي من نفسه بعد ٤ ساعات.</p></details>
       <details><summary>كم ياخذ وقت التركيب؟</summary><p>حوالي عشر دقائق: تكتب اسم محلك وخدماتك، وتطبع ملصق الباركود، وتفتح شاشة الموظف على أي جوال.</p></details>

diff --git a/site/infographics.html b/site/infographics.html
@@ -60,12 +60,12 @@ body{margin:0;background:var(--paper);color:var(--ink);font-family:"IBM Plex San
       <ol class="steps">
         <li class="st"><span class="n">1</span><div><b>امسح الباركود عند الباب</b><span>بكاميرا جوالك، بدون تطبيق ولا تسجيل</span></div><span class="ic" aria-hidden="true">📷</span></li>
         <li class="st"><span class="n">2</span><div><b>اختر الخدمة والكرسي، واضغط <i class="chip">خذ رقمك</i></b><span>تشوف مين فاضي ومين مشغول، أو خلّها على «الأسرع»</span></div><span class="ic" aria-hidden="true">🎟</span></li>
-        <li class="st"><span class="n">3</span><div><b>روح وتعال على راحتك</b><span>قهوتك، سيارتك، مشوارك… ونبلّغك قبلها</span></div><span class="ic" aria-hidden="true">☕</span></li>
+        <li class="st"><span class="n">3</span><div><b>قل لنا <i class="chip">كم تبعد؟</i> وروح على راحتك</b><span>نقولك متى تطلع، والتنبيه يجيك على الجوال أو الواتساب</span></div><span class="ic" aria-hidden="true">☕</span></li>
         <li class="st"><span class="n">4</span><div><b>اكشف مفاجأتك وأنت تنتظر</b><span>هدايا وتحدّيات من المحل، و<i class="chip">أبيها</i> لأي خدمة إضافية</span></div><span class="ic" aria-hidden="true">🎁</span></li>
         <li class="st"><span class="n">5</span><div><b>تأخرت شوي؟ اضغط <i class="chip">تأخرت</i></b><span>نأجّلك مكان أو مكانين بدل ما يروح دورك</span></div><span class="ic" aria-hidden="true">⏳</span></li>
-        <li class="st"><span class="n">6</span><div><b>يجيك تنبيه «وصل دورك» على الجوال</b><span>تفضّل… وقيّم زيارتك بلمسة</span></div><span class="ic" aria-hidden="true">🔔</span></li>
+        <li class="st"><span class="n">6</span><div><b>وصلت؟ اضغط <i class="chip">وصلت المحل</i></b><span>الموظف يعرف إنك موجود، ويجيك «وصل دورك»</span></div><span class="ic" aria-hidden="true">🔔</span></li>
       </ol>
-      <div class="foot"><span class="big">A-07</span><div><b>فعّل التنبيه أول ما تاخذ رقمك</b><span>عشان يوصلك «ارجع الآن» قبل دورك بدورين</span></div></div>
+      <div class="foot"><span class="big">A-07</span><div><b>فعّل التنبيه أو اربط الواتساب</b><span>عشان يوصلك «اطلع الحين» على قد مشوارك</span></div></div>
     </section></div>
 
     <div class="slot"><section class="ig staff" id="ig-staff" aria-label="طريقة الموظف">
@@ -75,7 +75,7 @@ body{margin:0;background:var(--paper);color:var(--ink);font-family:"IBM Plex San
         <li class="st"><span class="n">1</span><div><b>افتح رابط الربط مرة وحدة</b><span>يرسله لك صاحب المحل، وينحفظ في جهازك</span></div><span class="ic" aria-hidden="true">🔗</span></li>
         <li class="st"><span class="n">2</span><div><b>الشاشة تكلّمك بلغتك</b><span>عربي · English · اردو · বাংলা · Filipino</span></div><span class="ic" aria-hidden="true">🌐</span></li>
         <li class="st"><span class="n">3</span><div><b>اضغط <i class="chip">نادِ التالي</i></b><span>ينادي زبائن كرسيك أولاً، ويجيهم تنبيه «وصل دورك»</span></div><span class="ic" aria-hidden="true">👆</span></li>
-        <li class="st"><span class="n">4</span><div><b>زبون ما حضر؟ <i class="chip">ما حضر</i></b><span>أول مرة يتأخر شوي، والثانية يطلع من الطابور</span></div><span class="ic" aria-hidden="true">🚶</span></li>
+        <li class="st"><span class="n">4</span><div><b>شوف <i class="chip">وصل</i> و<i class="chip">في الطريق</i></b><span>جنب كل رقم. وإذا ما حضر اضغط «ما حضر»</span></div><span class="ic" aria-hidden="true">🚶</span></li>
         <li class="st"><span class="n">5</span><div><b>زبون بدون جوال؟ <i class="chip">إضافة زبون</i></b><span>يطلع الرقم كبير على شاشتك، قوله له</span></div><span class="ic" aria-hidden="true">➕</span></li>
         <li class="st"><span class="n">6</span><div><b>شارة <i class="chip">✋ يبي</i> بجانب الرقم</b><span>الزبون طلب خدمة إضافية، جهّزها قبل ما يجي</span></div><span class="ic" aria-hidden="true">✋</span></li>
       </ol>

diff --git a/site/competitors.html b/site/competitors.html
@@ -123,6 +123,8 @@ tr:last-child td{border-bottom:0}
         <tr><td>ولاء ونقاط</td><td class="us y">✓</td><td class="y">✓</td><td class="n">✕</td><td class="n">جزئي</td></tr>
         <tr><td><b>عروض ومفاجآت وقت الانتظار</b></td><td class="us y">✓ فريد</td><td class="n">✕</td><td class="n">بار إعلان</td><td class="n">✕</td></tr>
         <tr><td><b>اختيار الكرسي أو المختصة مع حالته المباشرة</b></td><td class="us y">✓ فريد</td><td class="n">✕</td><td class="n">✕</td><td class="n">توزيع داخلي</td></tr>
+        <tr><td><b>تنبيه حسب بُعد الزبون، وزر «وصلت» يشوفه الموظف</b></td><td class="us y">✓</td><td class="n">لم نجده</td><td class="n">لم نجده</td><td class="n">لم نجده</td></tr>
+        <tr><td><b>تنبيه واتساب بدون كتابة رقم الجوال</b></td><td class="us y">✓</td><td class="n">لم نتحقق</td><td class="n">لم نتحقق</td><td class="n">لم نتحقق</td></tr>
         <tr><td><b>تحدّيات زيارات بمكافأة</b></td><td class="us y">✓ فريد</td><td class="n">بطاقة ختم</td><td class="n">✕</td><td class="n">✕</td></tr>
         <tr><td><b>«أبيها»: إضافة خدمة يشوفها الموظف</b></td><td class="us y">✓ فريد</td><td class="n">✕</td><td class="n">طلب منيو</td><td class="n">✕</td></tr>
         <tr><td><b>شاشة الموظف بلغته (٥ لغات)</b></td><td class="us y">✓ فريد</td><td class="n">✕</td><td class="n">عربي وإنجليزي</td><td class="n">✕</td></tr>

diff --git a/CLAUDE.md b/CLAUDE.md
@@ -1,0 +1,46 @@
+# «جاي» — rules for every session
+
+The owner is an Arabic-speaking beginner. **Reply in Arabic only**, in plain words.
+
+## After ANY change (the owner's standing rule)
+A change is not done until everything that describes it is updated, published, and pushed:
+
+1. **App and tests**
+   - `dawri/web` and `dawri/supabase`.
+   - Add a new migration and **never edit an applied one**. New prefixes must be higher than the last one; `20261117000100_go_live.sql` exists only in the Netlify build.
+   - Run pgTAP with `dawri/scripts/local-db/reset.sh --test`.
+   - Run Playwright from `dawri/` after `node scripts/serve-web.mjs 8899`, with `DAWRI_CDN_MIRROR=<scratchpad>/tools npx playwright test --trace off`.
+   - Bump the cache name in `dawri/web/sw.js` when web files change.
+2. **Marketing pages** (`site/`). Update each one that mentions the change:
+   - `dawri.html`: the intro site, with its features, plans and FAQ.
+   - `infographics.html`: customer, staff and owner steps. Re-export the PNGs to `site/infographics/`.
+   - `competitors.html`: comparison rows.
+   - `readiness.html`: date, test counts, «أهم ما نُفّذ», items and suggestions, the runbook, and «ما أحتاجه منك».
+   - `social.src.html`: the post studio.
+   - `brand/`: logos and the brand guide.
+   - Then run `bash build.sh`.
+3. **Republish the artifacts**, using the same file path so the URL stays:
+
+   | Page | File | URL |
+   |---|---|---|
+   | Intro site | `site/dawri.html` | https://claude.ai/artifact/71xDAEiu7GMYG2UDgz2KzK |
+   | Infographics | `site/infographics.html` | https://claude.ai/artifact/Xjc7oDjeTz1rs2vLcLiPmp |
+   | Competitors | `site/competitors.html` | https://claude.ai/artifact/4CMZyMesQwptJs17GFALhE |
+   | Readiness | `site/readiness.html` | https://claude.ai/artifact/Rr9ZSXyjmr7rWzELq8Q92V |
+   | Social studio | `site/social.html` | https://claude.ai/artifact/JMa5tjfTUXCJhCuWJAaveX (capability: downloads) |
+
+4. **Deploy the live site**
+   - Run `node dawri/deploy/netlify/assemble.mjs <scratch>/nl-build`.
+   - Get a fresh command from the Netlify MCP `deploy-site` (siteId `97b108a5-ef6d-4d39-a312-67c6c74310cb`).
+   - Run it in that folder with `NODE_USE_ENV_PROXY=1 NODE_EXTRA_CA_CERTS=/root/.ccr/ca-bundle.crt`.
+   - Then check https://jay-live.netlify.app/api/health.
+5. **Commit and push** to `claude/new-session-kshbvu` and to `main`. Do not open PRs unless asked.
+6. **Tell the owner what changed, with every link:**
+   - Live: `/s/<shop>`, `/owner`, `/admin`, `/start`, `/about/`, `/studio/`, `/privacy`, `/brand/`
+   - The five artifact URLs above.
+
+## Never
+- Put secrets in code or chat.
+  - Keys are generated in the DB (`app_secrets`), or the owner types them into the admin dashboard (for example `whatsapp_config`).
+  - Never send the owner's email or personal data to outside services.
+- Use unofficial WhatsApp libraries. Use only the Meta Cloud API.
